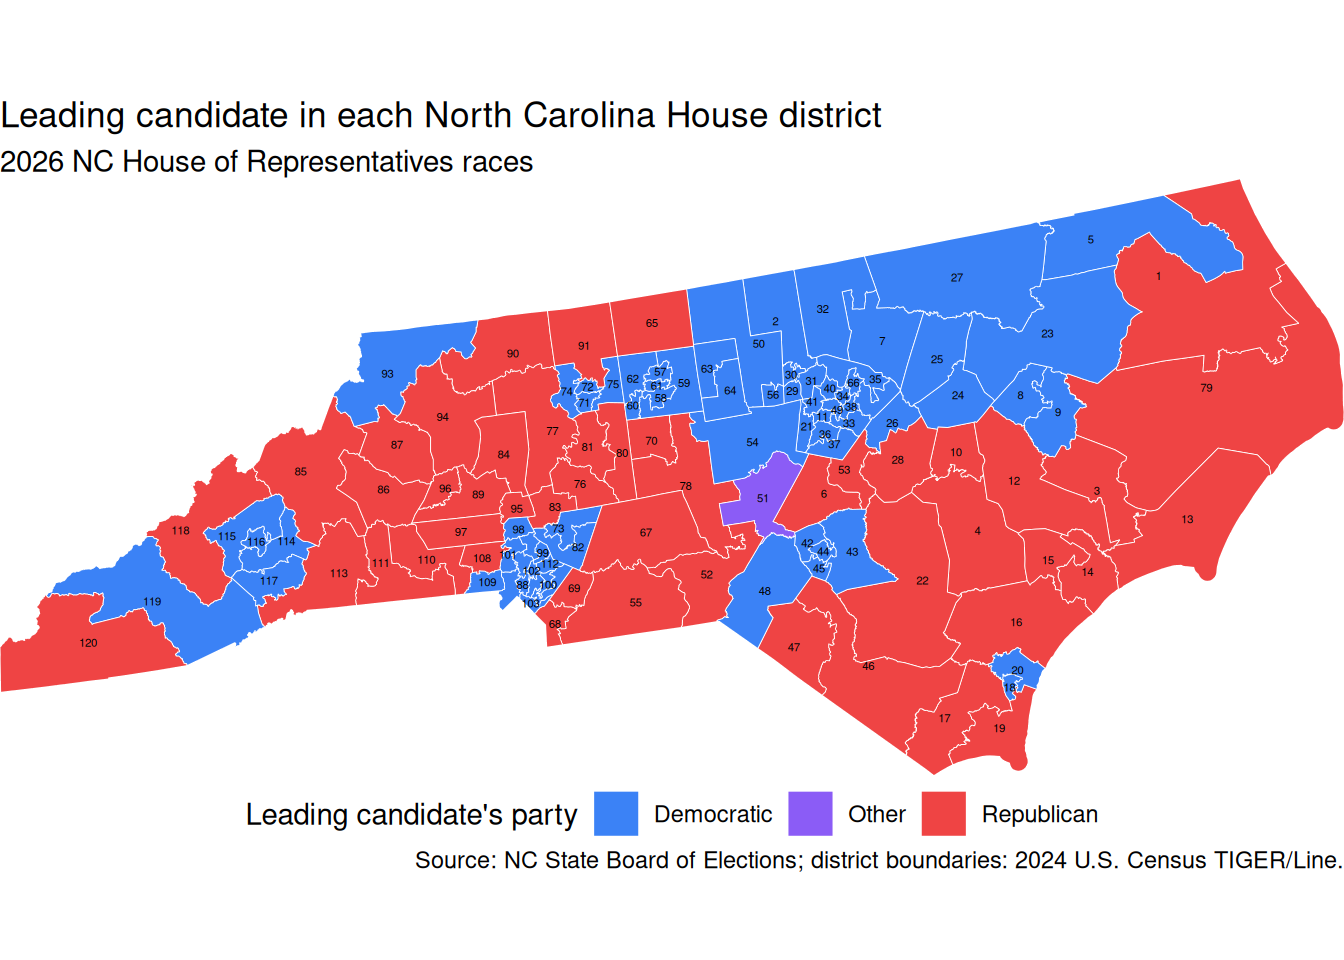
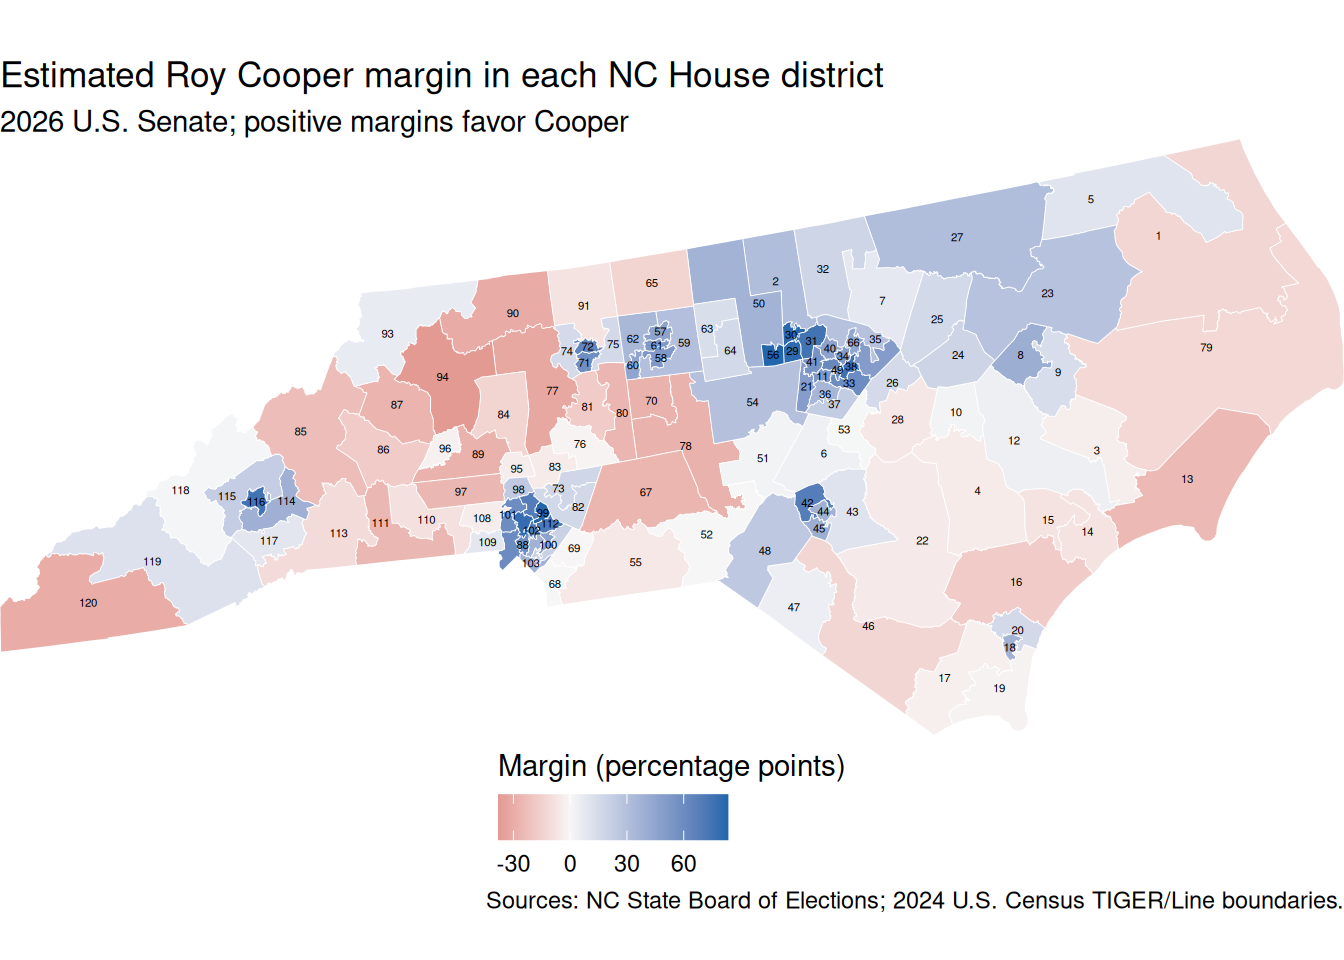
End All

diff --git a/_site/index.html b/_site/index.html
@@ -156,7 +156,7 @@ ul.task-list li input[type="checkbox"] {
 </section>
 <section id="nc-house-district-results" class="level2">
 <h2 class="anchored" data-anchor-id="nc-house-district-results">NC House District Results</h2>
-<p>This map colors each district by the party of its leading candidate. Candidate votes are summed across precincts; in a race with only one listed candidate, that candidate is shown. District boundaries are from the <a href="https://www2.census.gov/geo/tiger/TIGER2024/SLDL/tl_2024_37_sldl.zip">2024 U.S. Census TIGER/Line state legislative district files</a>.</p>
+<p>This is an original estimate inspired by <a href="https://ncfree.org/2026/11/election-night-2026-the-extended-cut/">NCFREE’s map of Roy Cooper’s Senate margin by House district</a>. The article does not publish a district-level data table. Here, Senate votes from each county/precinct location are allocated across House districts in proportion to the NC House votes at that location. This is approximate, especially for early-voting sites, and is not NCFREE’s estimate. Positive margins favor Cooper; the margin is the Democratic minus Republican share of all votes. This uses the downloaded NCSBE results, not the article’s Nov.&nbsp;4 snapshot. District boundaries are from the <a href="https://www2.census.gov/geo/tiger/TIGER2024/SLDL/tl_2024_37_sldl.zip">2024 U.S. Census TIGER/Line state legislative district files</a>.</p>
 <div class="cell">
 <div class="cell-output-display">
 <div>
@@ -244,7 +244,7 @@ ul.task-list li input[type="checkbox"] {
     }
       var localhostRegex = new RegExp(/^(?:http|https):\/\/localhost\:?[0-9]*\//);
       var mailtoRegex = new RegExp(/^mailto:/);
-        var filterRegex = new RegExp("https:\/\/gtillery19\.github\.io\/elections-again\/");
+        var filterRegex = new RegExp('/' + window.location.host + '/');
       var isInternal = (href) => {
           return filterRegex.test(href) || localhostRegex.test(href) || mailtoRegex.test(href);
       }

diff --git a/_site/about.html b/_site/about.html
@@ -217,7 +217,7 @@ ul.task-list li input[type="checkbox"] {
     }
       var localhostRegex = new RegExp(/^(?:http|https):\/\/localhost\:?[0-9]*\//);
       var mailtoRegex = new RegExp(/^mailto:/);
-        var filterRegex = new RegExp("https:\/\/gtillery19\.github\.io\/elections-again\/");
+        var filterRegex = new RegExp('/' + window.location.host + '/');
       var isInternal = (href) => {
           return filterRegex.test(href) || localhostRegex.test(href) || mailtoRegex.test(href);
       }
